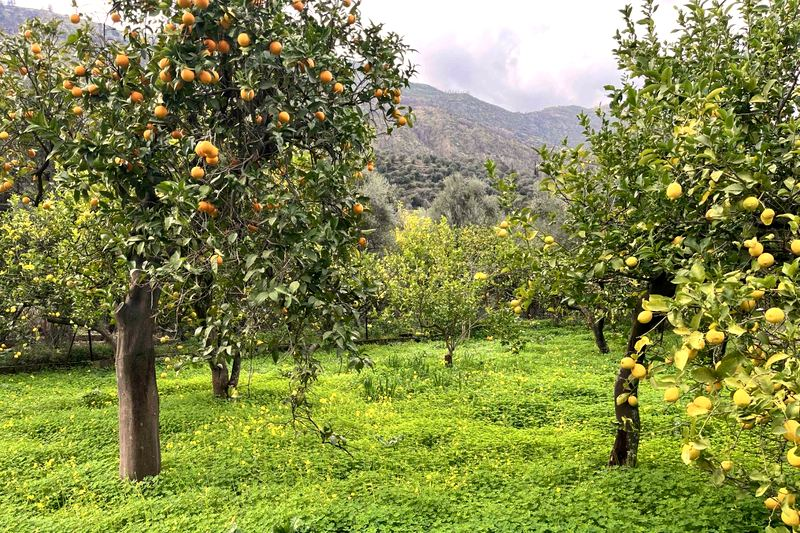
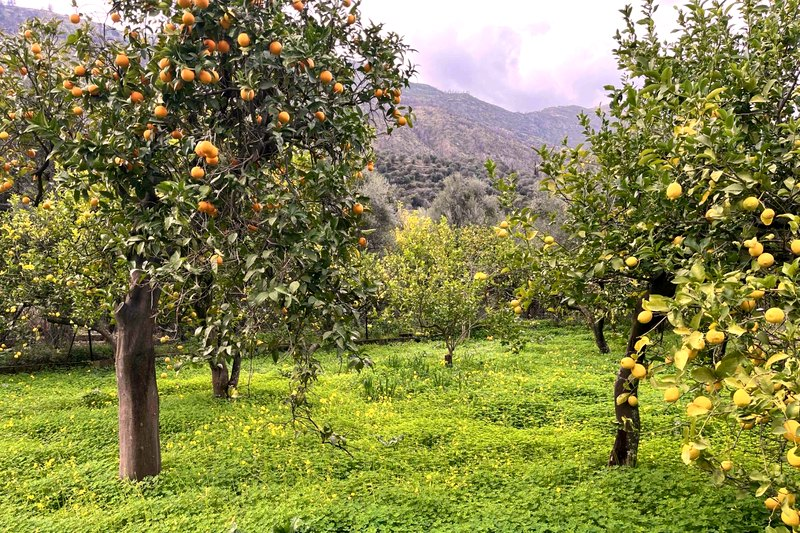
Ενιαία επεξεργασία φωτογραφιών μέσω script· νέα λήψη συγκομιδής
Η συγκομιδή αντικαταστάθηκε με το «sygkomidh 3»: δείχνει καθαρά γυναίκα να
μαζεύει δαμάσκηνα, χωρίς κάγκελο, με το βουνό στο βάθος. Το alt το λέει πλέον
με ακρίβεια — πριν απέφευγε τη διατύπωση επειδή η λήψη ήταν από πίσω.

Όλες οι φωτογραφίες παράγονται πλέον από ένα script (tools/build-photos.py)
αντί για ξεχωριστές ρυθμίσεις ανά εικόνα. Το τρίτο στάδιό του δίνει τη συνοχή:
μετριέται η απόχρωση κάθε λήψης στο κέντρο του κάδρου και τραβιέται μερικώς
προς τον μέσο όρο του συνόλου.

Η εξισορρόπηση αφορά μόνο χρώμα. Πρώτη εκδοχή διόρθωνε και τη φωτεινότητα:
το κοντινό στα σκούρα δαμάσκηνα πήρε gain 1.53 και κάηκε ο πάγκος. Ένα
κοντινό σε σκούρο θέμα είναι νόμιμα σκοτεινό, δεν είναι ασυνέπεια.

/images/* από max-age=86400 σε 300 + must-revalidate: οι εικόνες ξαναχτίζονται
κρατώντας ονόματα, και η υποχρέωση μετονομασίας είχε ήδη ξεφύγει δύο φορές.

diff --git a/index.html b/index.html
@@ -140,8 +140,8 @@
         <li class="step">
           <!-- ⚑ PHOTO 03 -->
           <figure class="photo ratio-4x3">
-            <img src="/images/step-2-picking.jpg"
-                 alt="Συγκομιδή δαμάσκηνων μέσα από τα κλαδιά της δαμασκηνιάς, με το βουνό στο βάθος"
+            <img src="/images/step-2-harvesting.jpg"
+                 alt="Γυναίκα μαζεύει δαμάσκηνα από τη δαμασκηνιά, με το βουνό της Αχαΐας στο βάθος"
                  width="900" height="675" loading="lazy" decoding="async">
           </figure>
           <span class="step__num" aria-hidden="true">2</span>

diff --git a/tools/build-photos.py b/tools/build-photos.py
@@ -1,0 +1,149 @@
+#!/usr/bin/env python3
+"""
+Χτίζει ΟΛΕΣ τις φωτογραφίες του site από τις πηγές, με ενιαία επεξεργασία.
+
+    python3 tools/build-photos.py
+
+Γιατί script και όχι χειροκίνητα: όταν κάθε φωτογραφία περνάει από δικές της
+ρυθμίσεις, το σύνολο δεν δένει — άλλη θερμοκρασία, άλλη φωτεινότητα, άλλο
+βάθος πεδίου. Εδώ όλες περνούν από τα ίδια τρία στάδια:
+
+  1. Κοπή στο ratio της θέσης
+  2. Βάθος πεδίου (εκτός από το hero, που είναι τοπίο)
+  3. Εξισορρόπηση προς τον μέσο όρο του συνόλου, και μετά ΜΙΑ κοινή διόρθωση
+
+Το στάδιο 3 είναι αυτό που δίνει τη συνοχή: μετριέται το μέσο χρώμα και η μέση
+φωτεινότητα κάθε λήψης στο κέντρο του κάδρου, και κάθε μία τραβιέται μερικώς
+προς τον μέσο όρο όλων. Μερικώς (BALANCE_STRENGTH) — με πλήρη διόρθωση τα
+λεμόνια θα έχαναν το κίτρινό τους και οι λωτοί το πορτοκαλί τους.
+
+Απαιτεί Pillow:  python3 -m pip install --user Pillow
+Το vazo.heic μετατρέπεται πρώτα με sips (το Pillow δεν διαβάζει HEIC).
+"""
+import io, pathlib, subprocess, sys
+from PIL import Image, ImageEnhance, ImageFilter, ImageChops, ImageStat
+
+ROOT = pathlib.Path(__file__).resolve().parent.parent
+SRC  = ROOT.parent / "Frouta Photos"
+OUT  = ROOT / "images"
+
+# Η εξισορρόπηση αφορά ΧΡΩΜΑ, όχι φωτεινότητα. Ένα κοντινό σε σκούρα
+# δαμάσκηνα είναι νόμιμα πιο σκοτεινό από έναν ηλιόλουστο οπωρώνα· αν τραβήξεις
+# και τη φωτεινότητα προς τον μέσο όρο, καίγονται τα φωτεινά μέρη.
+CHROMA_STRENGTH = 0.35    # πόσο διορθώνεται η απόχρωση προς τον μέσο όρο
+CHROMA_CLAMP    = (0.93, 1.08)
+LUMA_STRENGTH   = 0.12    # πολύ ήπια εξομάλυνση φωτεινότητας
+LUMA_CLAMP      = (0.94, 1.08)
+GRADE = dict(warm=1.035, bright=1.02, contrast=1.10, saturation=1.06)
+
+# source, crop στην πηγή, ratio, πλάτος(η), όνομα, εστίαση(cx,cy,rx,ry), blur, budget
+PHOTOS = [
+  ("esperidoeidi.jpg",   (0,0,1800,1350),   3/2, [800,1300], "orchard-{w}.jpg",             None,                    0,  270_000),
+  ("damaskina2.jpg",     None,              4/3, [900],      "step-1-branch.jpg",           (0.42,0.46,0.52,0.55),   9,  150_000),
+  ("sygkomidh 3.png",    (0,560,852,1199),  4/3, [900],      "step-2-harvesting.jpg",       (0.35,0.45,0.55,0.60),   9,  190_000),
+  ("damaskina4.jpg",     (45,40,639,486),   4/3, [900],      "step-3-washed.jpg",           (0.48,0.50,0.58,0.58),   8,  150_000),
+  ("vazo.jpg",           (0,180,2317,1918), 4/3, [1000],     "step-4-jar.jpg",              (0.32,0.50,0.62,0.62),   5,  150_000),
+  ("λεμονι τελικο.png",  None,              3/2, [1000],     "season-spring-lemon.jpg",     (0.63,0.50,0.50,0.55),   8,  150_000),
+  ("κρυσταλλια δεντρο.jpg", None,           3/2, [1000],     "season-summer-pears.jpg",     (0.50,0.48,0.56,0.58),   9,  240_000),
+  ("damaskina3.jpg",     None,              3/2, [1000],     "season-autumn-branch.jpg",    (0.46,0.50,0.55,0.58),   9,  150_000),
+  ("lotoi.jpeg",         None,              3/2, [600],      "season-winter-persimmons.jpg",(0.50,0.50,0.58,0.60),   5,  120_000),
+]
+
+# ── βάθος πεδίου ──────────────────────────────────────────────────────────
+def radial_mask(w, h, cx, cy, rx, ry, feather=0.8):
+    gw = 180; gh = max(1, int(180 * h / w)); px = []
+    for y in range(gh):
+        ny = (y + 0.5) / gh
+        for x in range(gw):
+            nx = (x + 0.5) / gw
+            d = (((nx-cx)/rx)**2 + ((ny-cy)/ry)**2) ** 0.5
+            t = min(1.0, max(0.0, (d - 1.0) / feather))
+            px.append(int(255 * (1 - t*t*(3 - 2*t))))
+    m = Image.new("L", (gw, gh)); m.putdata(px)
+    return m.resize((w, h), Image.BICUBIC)
+
+def depth_of_field(im, cx, cy, rx, ry, blur, vignette=0.10):
+    """Δύο στρώσεις θολώματος· μία μόνο αφήνει ορατό περίγραμμα."""
+    w, h = im.size
+    soft = im.filter(ImageFilter.GaussianBlur(blur * 0.45))
+    deep = im.filter(ImageFilter.GaussianBlur(blur))
+    out = Image.composite(soft, deep, radial_mask(w, h, cx, cy, rx*1.55, ry*1.55, 0.8))
+    out = Image.composite(im, out, radial_mask(w, h, cx, cy, rx, ry, 0.56))
+    v = radial_mask(w, h, cx, cy, 0.82, 0.82, 1.0).point(
+        lambda p: int(255 - (255 - p) * vignette))
+    return ImageChops.multiply(out, Image.merge("RGB", (v, v, v)))
+
+# ── βοηθητικά ─────────────────────────────────────────────────────────────
+def fit(im, ratio):
+    cw, ch = im.size; th = int(round(cw / ratio))
+    if th <= ch: return im.crop((0, 0, cw, th))
+    tw = int(round(ch * ratio)); return im.crop(((cw-tw)//2, 0, (cw-tw)//2+tw, ch))
+
+def core_mean(im):
+    """Μέσο RGB στο κέντρο — οι άκρες είναι θολές και σκοτεινές από το vignette."""
+    w, h = im.size
+    return ImageStat.Stat(im.crop((int(w*.2), int(h*.2), int(w*.8), int(h*.8)))).mean
+
+def apply_gain(im, gains):
+    return Image.merge("RGB", [
+        ch.point(lambda v, g=g: min(255, max(0, int(v * g))))
+        for ch, g in zip(im.split(), gains)])
+
+def grade(im):
+    r, g, b = im.split()
+    r = r.point(lambda v: min(255, int(v * GRADE["warm"])))
+    b = b.point(lambda v: int(v * (2 - GRADE["warm"])))
+    im = Image.merge("RGB", (r, g, b))
+    im = ImageEnhance.Brightness(im).enhance(GRADE["bright"])
+    im = ImageEnhance.Contrast(im).enhance(GRADE["contrast"])
+    return ImageEnhance.Color(im).enhance(GRADE["saturation"])
+
+def save_within(im, path, budget):
+    for q in (86, 84, 82, 80, 78, 76, 74):
+        buf = io.BytesIO(); im.save(buf, "JPEG", quality=q, optimize=True, progressive=True)
+        if buf.tell() <= budget: break
+    path.write_bytes(buf.getvalue())
+    return q, buf.tell()
+
+# ── κυρίως ────────────────────────────────────────────────────────────────
+def main():
+    heic = SRC / "vazo.heic"
+    if heic.exists() and not (SRC / "vazo.jpg").exists():
+        subprocess.run(["sips", "-s", "format", "jpeg", "-s", "formatOptions", "best",
+                        str(heic), "--out", str(SRC / "vazo.jpg")],
+                       check=True, capture_output=True)
+        print("vazo.heic → vazo.jpg (sips)")
+
+    # Στάδιο 1-2: κοπή, μέγεθος, βάθος πεδίου
+    built = []
+    for name, box, ratio, widths, tmpl, focus, blur, budget in PHOTOS:
+        base = Image.open(SRC / name).convert("RGB")
+        if box: base = base.crop(box)
+        base = fit(base, ratio)
+        for w in widths:
+            im = base.resize((w, int(round(w / ratio))), Image.LANCZOS)
+            if focus: im = depth_of_field(im, *focus, blur)
+            built.append([tmpl.format(w=w) if "{w}" in tmpl else tmpl, im, budget])
+
+    # Στάδιο 3: εξισορρόπηση προς τον μέσο όρο του συνόλου, μετά κοινή διόρθωση
+    def luma(m): return 0.299*m[0] + 0.587*m[1] + 0.114*m[2]
+    means  = [core_mean(im) for _, im, _ in built]
+    ratios = [[m[c] / luma(m) for c in range(3)] for m in means]          # απόχρωση
+    t_ratio = [sum(r[c] for r in ratios) / len(ratios) for c in range(3)]
+    t_luma  = sum(luma(m) for m in means) / len(means)
+    print(f"\nαπόχρωση στόχος  {t_ratio[0]:.3f}/{t_ratio[1]:.3f}/{t_ratio[2]:.3f}"
+          f"   φωτεινότητα στόχος {t_luma:.0f}\n")
+
+    def clamp(v, lo, hi): return lo if v < lo else (hi if v > hi else v)
+
+    for (dst, im, budget), m, r in zip(built, means, ratios):
+        lg = clamp(1 + (t_luma/luma(m) - 1) * LUMA_STRENGTH, *LUMA_CLAMP)
+        gains = [clamp(1 + (t_ratio[c]/r[c] - 1) * CHROMA_STRENGTH, *CHROMA_CLAMP) * lg
+                 for c in range(3)]
+        im = grade(apply_gain(im, gains))
+        q, size = save_within(im, OUT / dst, budget)
+        print(f"{dst:32} {im.size[0]:>4}x{im.size[1]:<4} q{q}  {size//1024:>3} KB"
+              f"   gain {gains[0]:.3f}/{gains[1]:.3f}/{gains[2]:.3f}")
+
+if __name__ == "__main__":
+    sys.exit(main())

diff --git a/images/README.md b/images/README.md
@@ -16,6 +16,29 @@
 κρατώντας το όνομα, όσοι έχουν ήδη επισκεφθεί τη σελίδα βλέπουν την παλιά.
 Γι' αυτό τα ονόματα περιγράφουν το **περιεχόμενο**, όχι τη θέση.
 
+## Πώς ξαναχτίζονται
+
+**Μην τις επεξεργαστείς μία-μία.** Όλες παράγονται από το
+[`../tools/build-photos.py`](../tools/build-photos.py):
+
+```bash
+python3 -m pip install --user Pillow      # μία φορά
+python3 tools/build-photos.py
+```
+
+Το script κάνει τρία πράγματα σε όλες με τον ίδιο τρόπο: κοπή στο ratio της
+θέσης, βάθος πεδίου, και **εξισορρόπηση προς τον μέσο όρο του συνόλου**. Το
+τρίτο είναι που δίνει τη συνοχή — μετριέται η απόχρωση κάθε λήψης στο κέντρο
+του κάδρου και τραβιέται μερικώς προς τον μέσο όρο όλων.
+
+Η εξισορρόπηση αφορά **χρώμα, όχι φωτεινότητα**: ένα κοντινό σε σκούρα
+δαμάσκηνα είναι νόμιμα πιο σκοτεινό από έναν ηλιόλουστο οπωρώνα, και
+διορθώνοντας και τη φωτεινότητα καίγονταν τα φωτεινά μέρη.
+
+Για νέα φωτογραφία: βάλε την στο `../../Frouta Photos/`, πρόσθεσε γραμμή στο
+`PHOTOS` του script (πηγή, κοπή, ratio, πλάτος, όνομα, σημείο εστίασης,
+θόλωμα, όριο bytes) και ξανατρέξε το.
+
 ## Έτοιμα
 
 Από τις λήψεις στο `../../Frouta Photos/`, με Pillow: crop στο ratio της θέσης,
